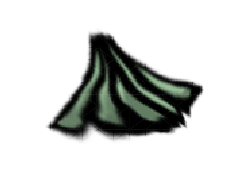
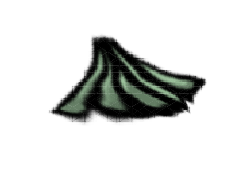
Mashtzarr male kasa correction; fitter: export hood-hole edits, grid only while editing it, square quad
Kasas: the author's latest fitter export adds a mashtzarr-male correction
on top of the current mashtzarr kasa art (scale 1 x 0.8, +2.5px x, -7px y),
applied to the old highlands kasa and riverlands tight/low/wide.

Fitter:
- The grid export/import now includes hood-hole edits and saved recipes
  (older exports without them leave the current ones untouched).
- The 6x6 grid draws only in Base transform, Grid only and Species fit.
- Quad corners mode draws just a plain square on the item's bounding box
  with square handles (no grid); nodes beyond the box follow its nearest
  edge, so the corners sit on the item instead of the canvas edges.

Claude-Session: https://claude.ai/code/session_01XRZE2sVSA4jEZ2bpX92Ess

Changed region(s): [[0.1795, 0.1734, 0.8974, 0.8382]]

diff --git a/scripts/test-clothing-fit-editor-layers.js b/scripts/test-clothing-fit-editor-layers.js
@@ -395,6 +395,10 @@ async function main() {
   assert.deepEqual(quadMoved[5], {x: 0.1, y: -0.2}, 'the dragged corner moves by the full delta');
   assert.deepEqual(quadMoved[30], {x: 0, y: 0}, 'the opposite corner stays put');
   assert(Math.abs(quadMoved[14].x - 0.1 * 0.4 * 0.6) < 1e-12, 'interior nodes follow with bilinear falloff');
+  // The quad sits on the item's bounding box: nodes beyond the box follow its nearest edge.
+  const boxMoved = quadApi.applyQuadCornerDelta(zero36, 0, 0.1, 0, {u0: 0.4, v0: 0.4, u1: 0.6, v1: 0.6});
+  assert.equal(boxMoved[0].x, 0.1, 'nodes beyond the top-left of the box move fully with the top-left corner');
+  assert.equal(boxMoved[35].x, 0, 'nodes beyond the opposite corner stay put');
   const stacked = quadApi.applyQuadCornerDelta(quadMoved, 2, 0, 0.1);
   assert.equal(stacked[5].x, 0.1, 'corner edits stack instead of resetting earlier deformation');
 
